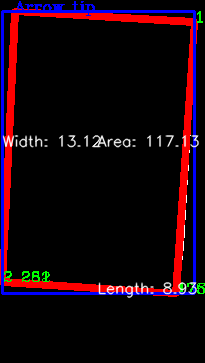
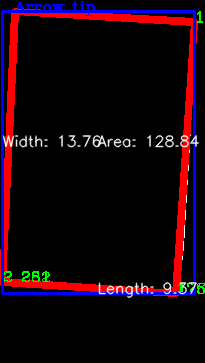
Make changes

diff --git a/Individual_Code/Jacques Van Niekerk/latest/file.py b/Individual_Code/Jacques Van Niekerk/latest/file.py
@@ -166,7 +166,7 @@ def main_coordinates():
     left = coordinateListX[0]
     right = coordinateListX[len(coordinateListX)-1]
 
-    ratio = 43
+    ratio = calibration_cube_coordinates()
 
     pixel_width = (top - bottom)
     pixel_length = (right - left)
